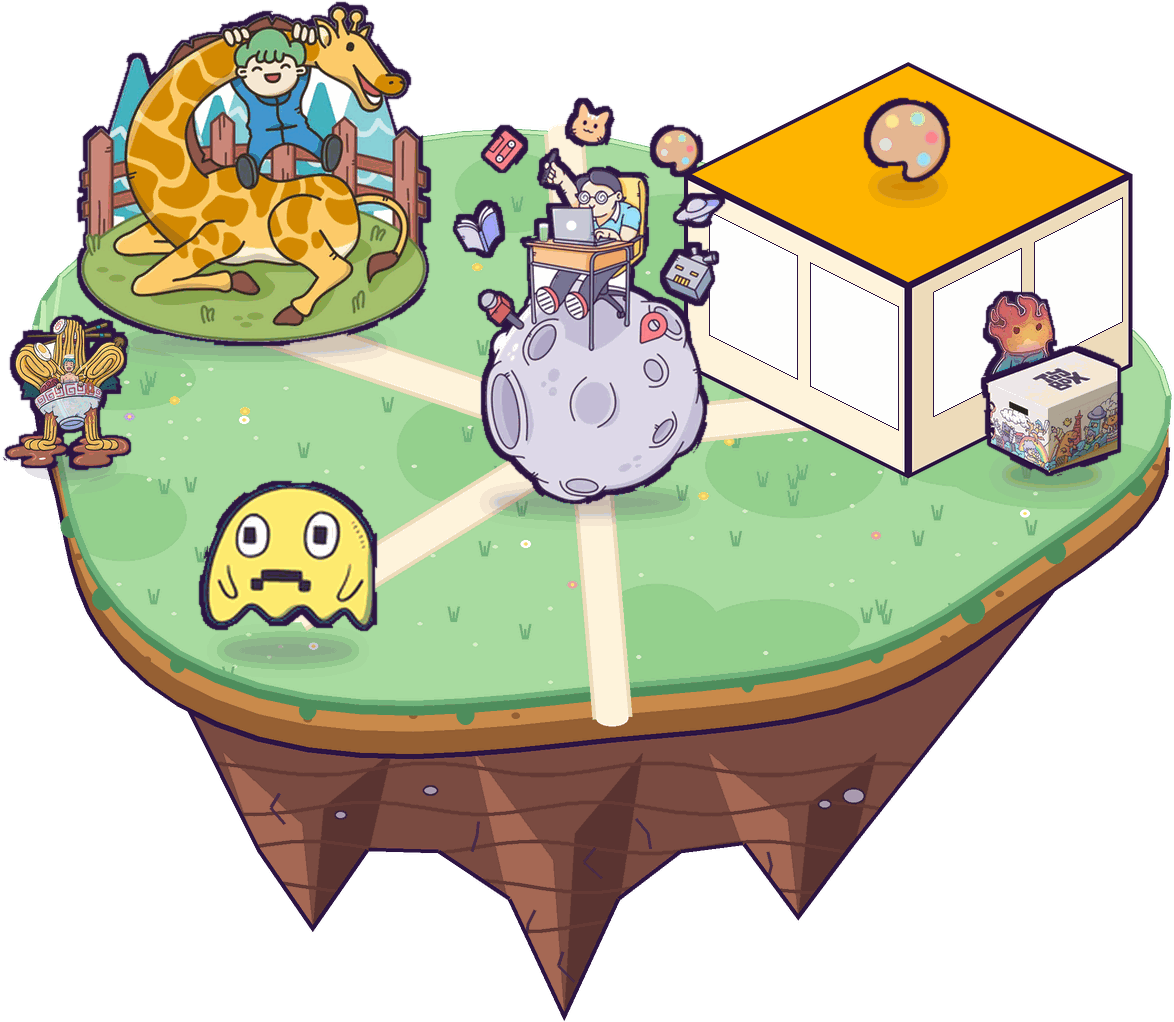
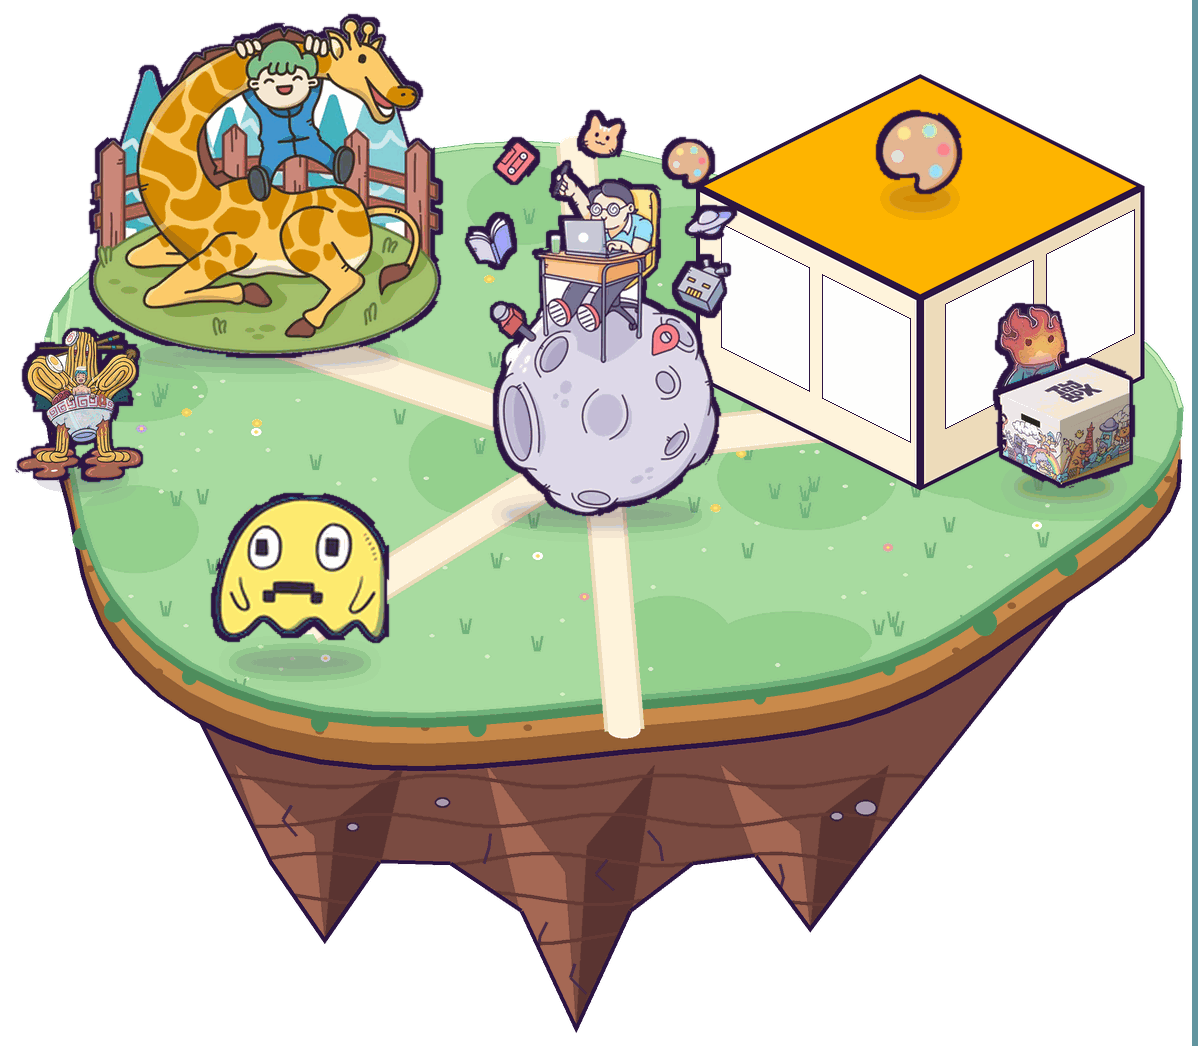
Map: the gate fades into the island (no flat cut), layers have a clear margin, village pause is one class plus a list (no getAnimations) and waits for the tab fade; jank-map prints medians
Claude-Session: https://claude.ai/code/session_014vZdpSpioGFcCnWN5YbskU

diff --git a/js/game.js b/js/game.js
@@ -153,7 +153,7 @@ function villageLife(V){
    scheduler starts a new short moment every 1-3 s, so 3 to 5 play at once, each in a different part of the map.
    Every moment is a Web Animation on transform and opacity of Ekky's own sprites or a plain gold or paper shape,
    removed when it ends. Nothing runs when the map is off screen or the tab is hidden; reduced motion shows a still map. ---- */
-const Life={tok:0,run:false,tm:0,live:new Map(),recent:[],io:null,V:null,fx:null,ctl:null};
+const Life={tok:0,anims:[],kits:new Set(),run:false,tm:0,live:new Map(),recent:[],io:null,V:null,fx:null,ctl:null};
 const rnd=(a,b)=>a+Math.random()*(b-a),pick=a=>a[Math.floor(Math.random()*a.length)];
 const EZ="cubic-bezier(.4,0,.2,1)",EZI="cubic-bezier(.22,.61,.36,1)";
 const calm=()=>matchMedia("(prefers-reduced-motion: reduce)").matches;
@@ -213,21 +213,28 @@ function nextWallPiece(){const shown=new Set([...$("gMapWrap").querySelectorAll(
   const o=PROJECTS.filter(p=>creative(p)&&p.kind==="original"&&!shown.has(thumbOf(p)));return o.length?pick(o):null}
 function lifeSpawn(){const busy=new Set([...Life.live.values()].map(m=>m.r)),ids=Life.recent;
   const ok=MOMENTS.filter(m=>!Life.live.has(m.id)&&!busy.has(m.r)&&!ids.includes(m.id));if(!ok.length)return;
-  const m=pick(ok),k=lifeKit();Life.recent=[...ids,m.id].slice(-6);Life.live.set(m.id,m);
+  const m=pick(ok),k=lifeKit();Life.recent=[...ids,m.id].slice(-6);Life.live.set(m.id,m);Life.kits.add(k);
   try{m.run(k)}catch(e){}
-  setTimeout(()=>{k.els.forEach(e=>e.remove());k.anims.forEach(a=>{try{a.cancel()}catch(e){}});Life.live.delete(m.id)},m.d+100)}
+  setTimeout(()=>{k.els.forEach(e=>e.remove());k.anims.forEach(a=>{try{a.cancel()}catch(e){}});Life.live.delete(m.id);Life.kits.delete(k)},m.d+100)}
 function lifeTick(){clearTimeout(Life.tm);if(!Life.run)return;
   if(!Z.pts.size&&Life.live.size<3+Math.floor(Math.random()*3))lifeSpawn();   // nothing new starts under a finger
   Life.tm=setTimeout(lifeTick,rnd(1000,3000))}
 // while a finger pans or pinches, the village's motion holds still and resumes when it lets go
-function lifeHold(on){if(on===!!Life.held||!Life.fx)return;Life.held=on;if(on)lifeAnims(a=>a.pause());else if(Life.run)lifeAnims(a=>{if(a.playState==="paused")a.play()})}
-function lifeAnims(f){const z=$("gMapZoom");if(z)z.getAnimations({subtree:true}).forEach(a=>{try{f(a)}catch(e){}})}
-function lifeSet(on){on=on&&!document.hidden&&!calm();if(on===Life.run)return;Life.run=on;
-  if(on){lifeAnims(a=>{if(a.playState==="paused")a.play()});lifeTick()}else{clearTimeout(Life.tm);lifeAnims(a=>a.pause())}}
+function lifeHold(on){if(on===!!Life.held||!Life.fx)return;Life.held=on;if(on)lifeEach(true);else if(Life.run)lifeEach(false)}
+// Pause or resume everything the village runs: the CSS loops all stop with one class on the village root, the Web Animations are
+// kept in a list (Life.anims, and each moment's own), so nothing walks the whole document's animations.
+function lifeEach(pause){const z=$("gMapZoom");if(z)z.classList.toggle("v-hold",pause);
+  const f=a=>{try{if(pause)a.pause();else if(a.playState==="paused")a.play()}catch(e){}};Life.anims.forEach(f);Life.kits.forEach(k=>k.anims.forEach(f))}
+// the pause waits until the tab's fade has finished, and the resume until the Map is fully shown, so a tab switch itself stays light
+function lifeSet(on){clearTimeout(Life.sw);Life.sw=setTimeout(()=>lifeApply(on&&screen==="map"&&!document.hidden&&!calm()),on?300:320)}
+function lifeApply(on){if(on===Life.run)return;Life.run=on;
+  if(on){lifeEach(false);lifeTick()}else{clearTimeout(Life.tm);lifeEach(true)}}
 // always on: walkers walk their routes, clouds drift, stars twinkle, islands bob; started once per drawn village
 function lifeStart(z,V){Life.V=V;Life.fx=z.querySelector(".v-fx");Life.live.clear();if(!Life.fx||calm())return;
   const BOB={north:[6900,.9,0],mid:[8200,.6,-2300],south:[7400,.8,-4100]},isleAt=y=>y<260?"north":y>=500?"south":"mid";
-  const u=v=>(v/V.w*100).toFixed(3)+"cqw",tok=++Life.tok,stage=(ms,f,early)=>setTimeout(()=>{if(tok===Life.tok&&z.isConnected){f();if(!early&&screen!=="map")lifeAnims(a=>a.pause())}},ms+(early?0:2600));   // the village wakes up a little after the first look, one step every 350 ms, so opening the tab never does it all at once
+  Life.anims=[];Life.kits.clear();Life.held=false;
+  const A=(el,kf,o)=>{const a=el.animate(kf,o);Life.anims.push(a);return a};
+  const u=v=>(v/V.w*100).toFixed(3)+"cqw",tok=++Life.tok,stage=(ms,f,early)=>setTimeout(()=>{if(tok===Life.tok&&z.isConnected){f();if(!early&&screen!=="map")lifeEach(true)}},ms+(early?0:2600));   // the village wakes up a little after the first look, one step every 350 ms, so opening the tab never does it all at once
   stage(700,()=>z.querySelectorAll(".v-walk").forEach(w=>{const r=V.walkers[+w.dataset.w];if(!r)return;
     const ig=z.querySelector(`.v-isleg[data-isle="${isleAt(r.route[0][1])}"]`);if(ig)ig.appendChild(w);   // it stands on its island and bobs with it
     const route=r.route,pts=[...route,...route.slice(0,-1).reverse()],T=36/1600;   // 1 tile (36 px) per 1.6 s
@@ -236,14 +243,14 @@ function lifeStart(z,V){Life.V=V;Life.fx=z.querySelector(".v-fx");Life.live.clea
     const at=p=>`translate(${pct(p[0],V.w)},${pct(p[1],V.h)})`,kf=[],turns=[];let t=0,side=Math.sign(route[1][0]-route[0][0])||1;
     pts.forEach((p,j)=>{kf.push({offset:t/dur,transform:at(p)});t+=pause(j);kf.push({offset:Math.min(1,t/dur),transform:at(p)});
       if(j<segs.length){const dx=Math.sign(pts[j+1][0]-p[0]);if(dx)side=dx;turns.push({offset:t/dur,side});t+=segs[j]}});
-    kf[kf.length-1].offset=1;w.animate(kf,{duration:dur,iterations:Infinity,easing:"linear",delay});
+    kf[kf.length-1].offset=1;A(w,kf,{duration:dur,iterations:Infinity,easing:"linear",delay});
     // the picture turns to face where it goes, flipping while it waits
     const img=w.querySelector("img"),first=turns[0].side;if(img&&r.face!==0&&turns.some(x=>x.side!==first)){
       const fk=[{offset:0,scale:"1 1"},...turns.map(x=>({offset:x.offset,scale:x.side===first?"1 1":"-1 1"})),{offset:1,scale:"1 1"}];
-      img.animate(fk.map(f=>({...f,easing:"step-end"})),{duration:dur,iterations:Infinity,delay})}}));
+      A(img,fk.map(f=>({...f,easing:"step-end"})),{duration:dur,iterations:Infinity,delay})}}));
   // each island group bobs a few px at its own pace (one animation per island, so the cost stays tiny)
-  stage(1050,()=>{z.querySelectorAll(".v-isleg").forEach(e=>{const [d,amp,delay]=BOB[e.dataset.isle];e.animate([{transform:"translateY(0)"},{transform:`translateY(${u(-amp)})`}],{duration:d,delay,iterations:Infinity,direction:"alternate",easing:"ease-in-out"})});
-    const uf=z.querySelector(".v-ufo");if(uf)uf.animate([{transform:"translate(0,0) rotate(-3deg)"},{transform:`translate(${u(1.4)},${u(-1.6)}) rotate(3deg)`}],{duration:4600,iterations:Infinity,direction:"alternate",easing:"ease-in-out"})});
+  stage(1050,()=>{z.querySelectorAll(".v-isleg").forEach(e=>{const [d,amp,delay]=BOB[e.dataset.isle];A(e,[{transform:"translateY(0)"},{transform:`translateY(${u(-amp)})`}],{duration:d,delay,iterations:Infinity,direction:"alternate",easing:"ease-in-out"})});
+    const uf=z.querySelector(".v-ufo");if(uf)A(uf,[{transform:"translate(0,0) rotate(-3deg)"},{transform:`translate(${u(1.4)},${u(-1.6)}) rotate(3deg)`}],{duration:4600,iterations:Infinity,direction:"alternate",easing:"ease-in-out"})});
   // clouds drift, the gate's lantern flickers, the noodle bath steams
   stage(0,()=>{
   Life.fx.insertAdjacentHTML("beforebegin",`<div class="v-cloudrow" style="top:4%"><span class="v-cloud"></span></div><div class="v-cloudrow" style="top:80%"><span class="v-cloud small" style="animation-delay:-36s"></span></div>`);
@@ -256,7 +263,7 @@ function lifeStart(z,V){Life.V=V;Life.fx=z.querySelector(".v-fx");Life.live.clea
     stage(500+i*200,()=>{const im=new Image();im.src=s;im.decode().catch(()=>{});Life.cache.push(im)},true));
   if(!Life.io){Life.io=new IntersectionObserver(es=>lifeSet(es[es.length-1].isIntersecting),{threshold:.05});Life.io.observe($("gMapWrap"));
     document.addEventListener("visibilitychange",()=>lifeSet(!document.hidden&&screen==="map"))}
-  stage(1400,()=>{Life.run=null;lifeSet(screen==="map")})}   // null: re-sync play or pause for the freshly drawn village   // null: re-sync play or pause for the freshly drawn village
+  stage(1400,()=>{Life.run=null;clearTimeout(Life.sw);lifeApply(screen==="map"&&!document.hidden&&!calm())})}   // null: re-sync play or pause for the freshly drawn village   // null: re-sync play or pause for the freshly drawn village
 
 /* ---- Zoom (G1): pinch, drag or double-tap with a finger, or the +/- buttons with a mouse; 1x to 2x. A place is still one tap: a touch
    that moved more than 8 px is a pan, not a tap. Nothing animates; the view follows the finger. ---- */

diff --git a/assets/village/village.js b/assets/village/village.js
@@ -1,2 +1,2 @@
 // Generated by scripts/village.py from village.json. Do not edit.
-window.VILLAGE={"w": 601, "h": 827, "layers": {"sky": {"src": "assets/village/nebula.png", "x": 0, "y": 0, "w": 601, "h": 827}, "stars": {"src": "assets/village/stars.svg", "x": 0, "y": 0, "w": 601, "h": 827}, "north": {"src": "assets/village/island-north.png", "x": 149, "y": 26, "w": 282, "h": 224}, "mid": {"src": "assets/village/island-mid.png", "x": 11, "y": 164, "w": 587, "h": 511}, "south": {"src": "assets/village/island-south.png", "x": 176, "y": 498, "w": 338, "h": 326}}, "frames": [{"wall": "left", "x": 368.7, "y": 272.8, "w": 38.1, "h": 56, "slope": 0.5}, {"wall": "left", "x": 419.1, "y": 298.0, "w": 38.1, "h": 56, "slope": 0.5}, {"wall": "right", "x": 480.7, "y": 313.2, "w": 38.1, "h": 56, "slope": -0.5}, {"wall": "right", "x": 531.1, "y": 288.0, "w": 38.1, "h": 56, "slope": -0.5}], "places": {"observatory": {"box": [223, 21, 319, 117], "label": [271.0, 129]}, "gallery": {"box": [353, 195, 578, 405], "label": [465, 411]}, "studio": {"box": [51, 167, 224, 335], "label": [137.5, 347]}, "home": {"box": [238, 215, 371, 415], "label": [304.5, 419]}, "doodle": {"box": [109, 397, 201, 489], "label": [155.0, 493]}, "hire": {"box": [264, 501, 401, 673], "label": [332.5, 677]}}, "folk": {"fire-spirit": {"piece": "rpg", "box": [504, 311, 537, 363]}, "noodle-bath": {"piece": "noodles", "box": [14, 323, 75, 397]}, "ufo": {"piece": "doodles", "box": [116, 35, 178, 91]}}, "walkers": [{"name": "car", "piece": "road-trip", "src": "assets/sprites/car.png", "h": 52, "face": -1, "aspect": 1.379, "route": [[233, 357], [159, 333]]}, {"name": "dog", "piece": "doodles", "src": "assets/sprites/dog.png", "h": 70, "face": -1, "aspect": 0.713, "route": [[251, 409], [195, 447]]}, {"name": "plug-hero", "piece": "plug-hero", "src": "assets/sprites/plug-hero.png", "h": 66, "face": -1, "aspect": 0.821, "route": [[365, 377], [433, 367]]}, {"name": "orange-monster", "piece": "doodles", "src": "assets/sprites/orange-monster.png", "h": 44, "face": 1, "aspect": 1.078, "route": [[293, 131], [293, 165], [293, 213]]}, {"name": "crab", "piece": "summertime", "src": "assets/sprites/crab.png", "h": 30, "face": 0, "aspect": 1.442, "route": [[225, 647], [261, 629]]}], "scenery": [], "lantern": [320.4, 617.1], "ufo": {"src": "assets/sprites/ufo.png", "box": [116, 35, 178, 91], "layer": "north"}, "smoke": [[44.5, 341]]};
+window.VILLAGE={"w": 601, "h": 827, "layers": {"sky": {"src": "assets/village/nebula.png", "x": 0, "y": 0, "w": 601, "h": 827}, "stars": {"src": "assets/village/stars.svg", "x": 0, "y": 0, "w": 601, "h": 827}, "north": {"src": "assets/village/island-north.png", "x": 143, "y": 20, "w": 294, "h": 236}, "mid": {"src": "assets/village/island-mid.png", "x": 5, "y": 158, "w": 599, "h": 523}, "south": {"src": "assets/village/island-south.png", "x": 170, "y": 492, "w": 350, "h": 338}}, "frames": [{"wall": "left", "x": 368.7, "y": 272.8, "w": 38.1, "h": 56, "slope": 0.5}, {"wall": "left", "x": 419.1, "y": 298.0, "w": 38.1, "h": 56, "slope": 0.5}, {"wall": "right", "x": 480.7, "y": 313.2, "w": 38.1, "h": 56, "slope": -0.5}, {"wall": "right", "x": 531.1, "y": 288.0, "w": 38.1, "h": 56, "slope": -0.5}], "places": {"observatory": {"box": [223, 21, 319, 117], "label": [271.0, 129]}, "gallery": {"box": [353, 195, 578, 405], "label": [465, 411]}, "studio": {"box": [51, 167, 224, 335], "label": [137.5, 347]}, "home": {"box": [238, 215, 371, 415], "label": [304.5, 419]}, "doodle": {"box": [109, 397, 201, 489], "label": [155.0, 493]}, "hire": {"box": [264, 501, 401, 673], "label": [332.5, 677]}}, "folk": {"fire-spirit": {"piece": "rpg", "box": [504, 311, 537, 363]}, "noodle-bath": {"piece": "noodles", "box": [14, 323, 75, 397]}, "ufo": {"piece": "doodles", "box": [116, 35, 178, 91]}}, "walkers": [{"name": "car", "piece": "road-trip", "src": "assets/sprites/car.png", "h": 52, "face": -1, "aspect": 1.379, "route": [[233, 357], [159, 333]]}, {"name": "dog", "piece": "doodles", "src": "assets/sprites/dog.png", "h": 70, "face": -1, "aspect": 0.713, "route": [[251, 409], [195, 447]]}, {"name": "plug-hero", "piece": "plug-hero", "src": "assets/sprites/plug-hero.png", "h": 66, "face": -1, "aspect": 0.821, "route": [[365, 377], [433, 367]]}, {"name": "orange-monster", "piece": "doodles", "src": "assets/sprites/orange-monster.png", "h": 44, "face": 1, "aspect": 1.078, "route": [[293, 131], [293, 165], [293, 213]]}, {"name": "crab", "piece": "summertime", "src": "assets/sprites/crab.png", "h": 30, "face": 0, "aspect": 1.442, "route": [[225, 647], [261, 629]]}], "scenery": [], "lantern": [320.4, 617.1], "ufo": {"src": "assets/sprites/ufo.png", "box": [116, 35, 178, 91], "layer": "north"}, "smoke": [[44.5, 341]]};

diff --git a/css/game.css b/css/game.css
@@ -1118,3 +1118,4 @@ body.game-mode .idle-buddy.on-start{left:16px;right:16px;max-width:none;align-it
 .idle-buddy.on-start img{width:36px;height:36px}
 .idle-buddy.on-start .idle-bubble{margin:0;padding:0 9px;font-size:.75rem;line-height:1.5;box-shadow:0 2px 0 #2B1342;display:-webkit-box;-webkit-box-orient:vertical;-webkit-line-clamp:2;overflow:hidden}
 @media (max-width:760px){body:not(.game-mode) .g-mode-fab{left:calc(16px + env(safe-area-inset-left));bottom:calc(22px + env(safe-area-inset-bottom))}}   /* iPhone safe areas, see site.css */
+.v-hold,.v-hold *{animation-play-state:paused!important}   /* the whole village holds still: off screen, or under a finger */

diff --git a/scripts/village.py b/scripts/village.py
@@ -310,7 +310,7 @@ def radial(im, cx, cy, rx, ry, rgb, a, k):
 INK_PAD = 6 * Z
 
 
-def inked(sp, name):
+def inked(sp, name, cut=()):
     """Ekky's cut-out with one shared, slightly wobbly dark ink outline (about 2 px on a phone) around its silhouette,
     so every character and prop on the islands reads as drawn on the same page. The wobble is a fixed noise per name."""
     import random
@@ -323,13 +323,42 @@ def inked(sp, name):
     n = Image.fromarray((rnd.rand(big.height // 24 + 2, big.width // 24 + 2) * 255).astype(np.uint8)).resize(big.size, Image.BICUBIC)
     n = n.filter(ImageFilter.GaussianBlur(4)).point(lambda v: 255 if v > 118 else 0)
     ring = Image.composite(thick, thin, n).filter(ImageFilter.GaussianBlur(.6))
+    if cut:   # no ink line across a flat cut: it fades into the ground instead
+        r = np.array(ring)
+        m = 14 * Z + pad
+        if "bottom" in cut:
+            r[-m:, :] = 0
+        if "left" in cut:
+            r[:, :m] = 0
+        if "right" in cut:
+            r[:, -m:] = 0
+        ring = Image.fromarray(r)
     out = Image.new("RGBA", big.size, INK + (0,))
     out.putalpha(ring)
     out.alpha_composite(big)
     return out
 
 
-def paste(img, name, foot, h, flip=False, shadow=True, ink=True):
+def feather(sp, sides, px):
+    """Fade the alpha of a cut-out toward the sides where its picture was cropped flat (the original art ends in a straight line
+    there), so the island's own ground shows through and no straight edge is left."""
+    a = np.array(sp.getchannel("A")).astype(float)
+    h, w = a.shape
+    ramp = lambda n: np.clip(np.arange(n) / px, 0, 1)
+    if "bottom" in sides:
+        a *= ramp(h)[::-1][:, None]
+    if "top" in sides:
+        a *= ramp(h)[:, None]
+    if "left" in sides:
+        a *= ramp(w)[None, :]
+    if "right" in sides:
+        a *= ramp(w)[::-1][None, :]
+    out = sp.copy()
+    out.putalpha(Image.fromarray((a * 1).astype(np.uint8)))
+    return out
+
+
+def paste(img, name, foot, h, flip=False, shadow=True, ink=True, cut=()):
     """Stand a cut-out with its bottom center on `foot` (canvas units), scaled to height h; img is Z times the canvas.
     Returns its box in canvas units."""
     sp = Image.open(os.path.join(ROOT, "assets", "sprites" if os.path.exists(os.path.join(ROOT, "assets", "sprites", name + ".png")) else "ui", name + ".png")).convert("RGBA")
@@ -337,6 +366,8 @@ def paste(img, name, foot, h, flip=False, shadow=True, ink=True):
     sp = sp.resize((w * Z, h * Z), Image.LANCZOS)
     if flip:
         sp = sp.transpose(Image.FLIP_LEFT_RIGHT)
+    if cut:
+        sp = feather(sp, cut, 12 * Z)
     x, y = round(foot[0] * Z - w * Z / 2), round(foot[1] * Z - h * Z)
     if shadow:   # a soft ground shadow (none for things in the sky or the water)
         sh = Image.new("RGBA", img.size)
@@ -344,7 +375,7 @@ def paste(img, name, foot, h, flip=False, shadow=True, ink=True):
         img.alpha_composite(sh.filter(ImageFilter.GaussianBlur(3 * Z)))
     box = [x // Z, y // Z, (x + w * Z) // Z, (y + h * Z) // Z]
     if ink:
-        sp = inked(sp, name)
+        sp = inked(sp, name, cut)
         x, y = x - INK_PAD, y - INK_PAD
     img.alpha_composite(sp, (x, y))
     return box
@@ -511,7 +542,7 @@ def build():
     places["home"] = paste(L["mid"], "home", (372, 520), 200)
     places["doodle"] = paste(L["mid"], "ghost", (222, 594), 92)
     radial(L["south"], 400, 782, 120, 20, (255, 190, 90), .45, Z)   # a pool of lantern light on the ground in front of the gate
-    places["hire"] = paste(L["south"], "gate", (400, 778), 172)
+    places["hire"] = paste(L["south"], "gate", (400, 778), 172, cut=("bottom", "left", "right"))   # the gate's picture is cropped flat on three sides
     paste(L["south"], "signpost", (560, 764), 48)
     paste(L["south"], "pen-hand", (330, 790), 30, flip=True)
     gb = places["hire"]
@@ -559,7 +590,7 @@ def build():
         f.write('<svg xmlns="http://www.w3.org/2000/svg" viewBox="0 0 %d %d"><g transform="translate(%d %d)">%s</g></svg>\n' % (ex - ox, ey - oy, -ox, -oy, "".join(stars)))
     for name in ("north", "mid", "south"):
         x0, y0, x1, y1 = L[name].getchannel("A").point(lambda v: 255 if v else 0).getbbox()
-        x0, y0, x1, y1 = x0 // Z, y0 // Z, -(-x1 // Z), -(-y1 // Z)   # whole canvas units, so the layers line up exactly
+        x0, y0, x1, y1 = x0 // Z - 6, y0 // Z - 6, -(-x1 // Z) + 6, -(-y1 // Z) + 6   # whole canvas units, with a clear margin so no shape ends in a straight line on the image border
         Q[name].crop((x0 * Z, y0 * Z, x1 * Z, y1 * Z)).save(os.path.join(OUT, "island-%s.png" % name), optimize=True)
         layers[name] = dict(src="assets/village/island-%s.png" % name, x=x0, y=y0, w=x1 - x0, h=y1 - y0)
     img = small
